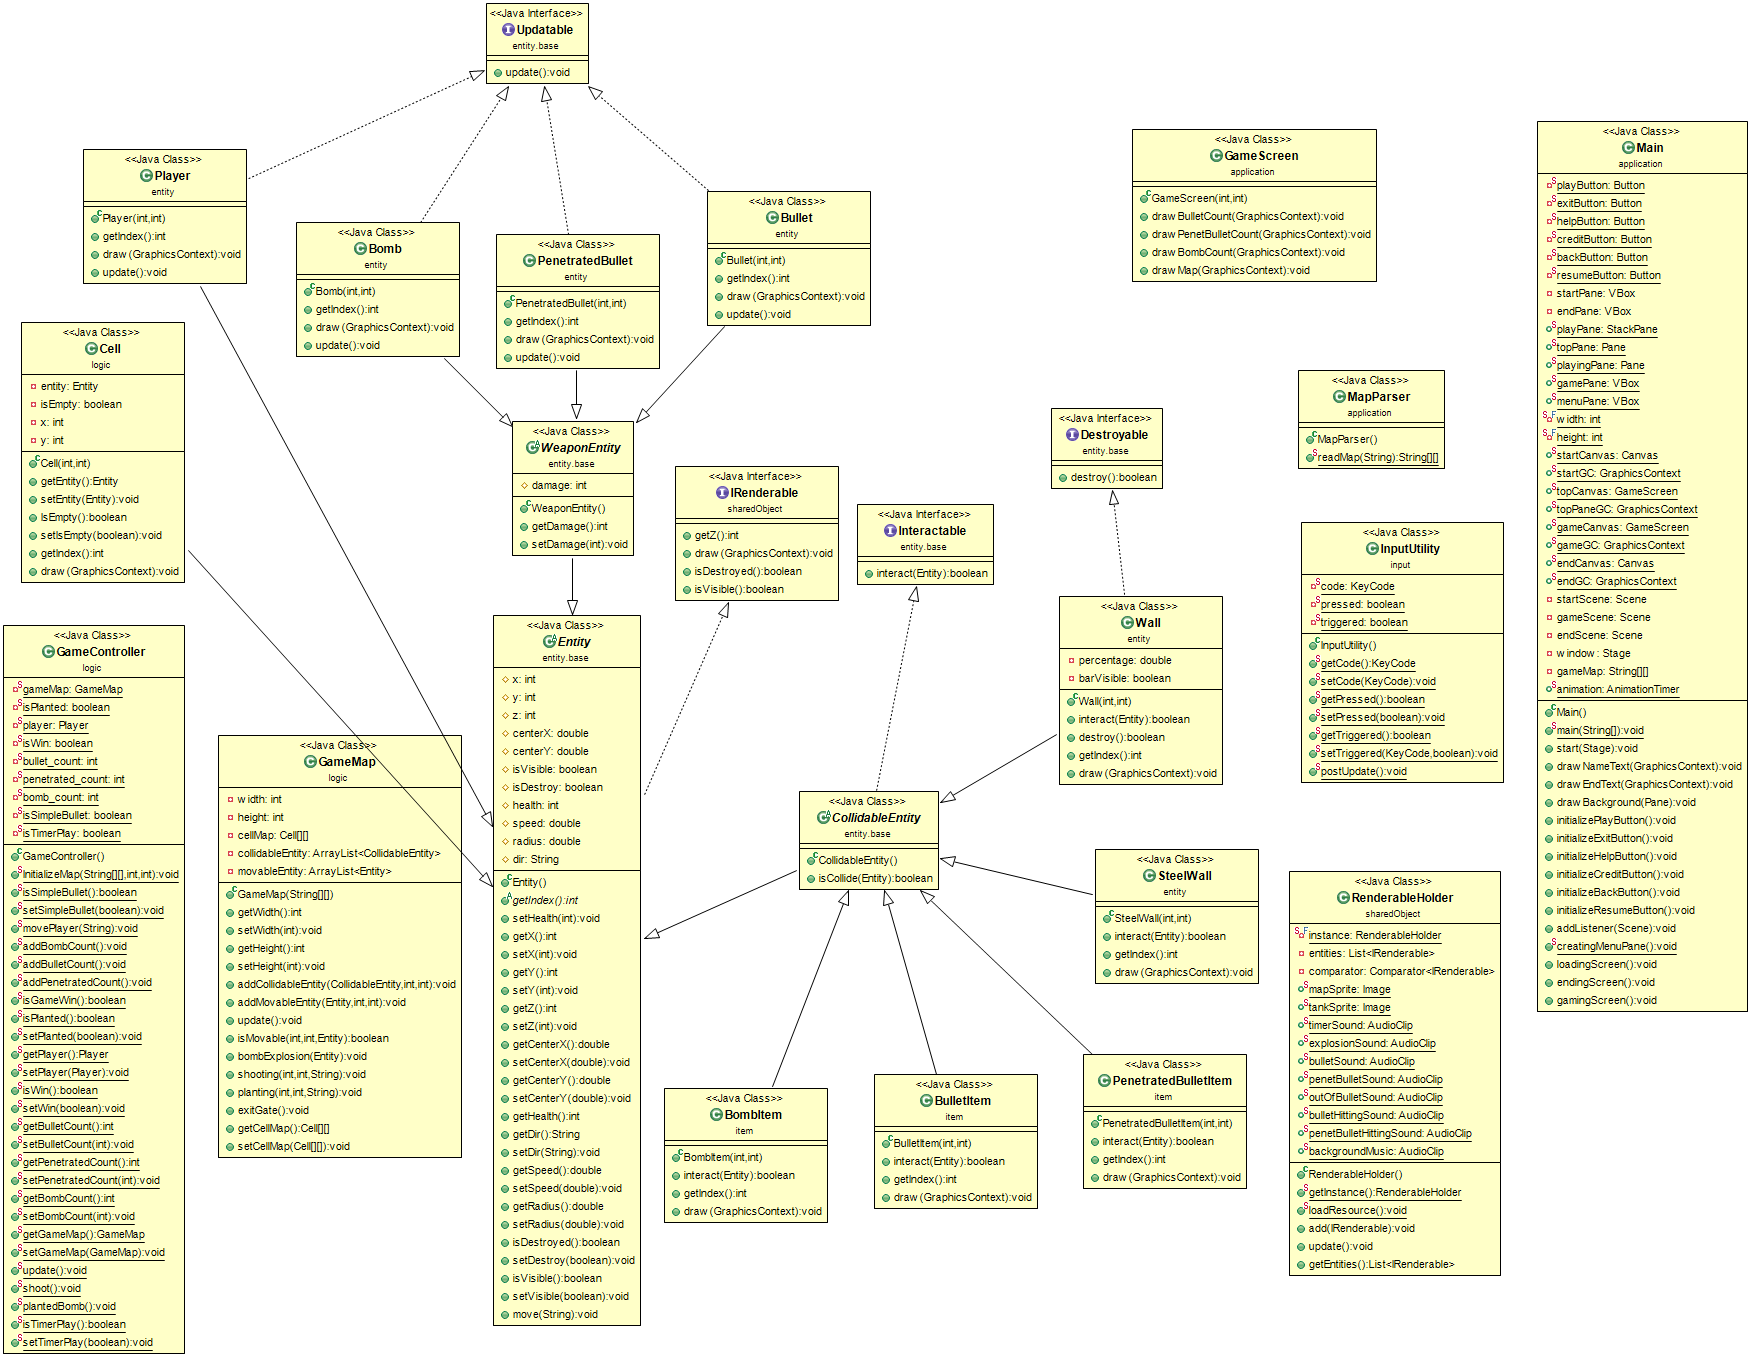
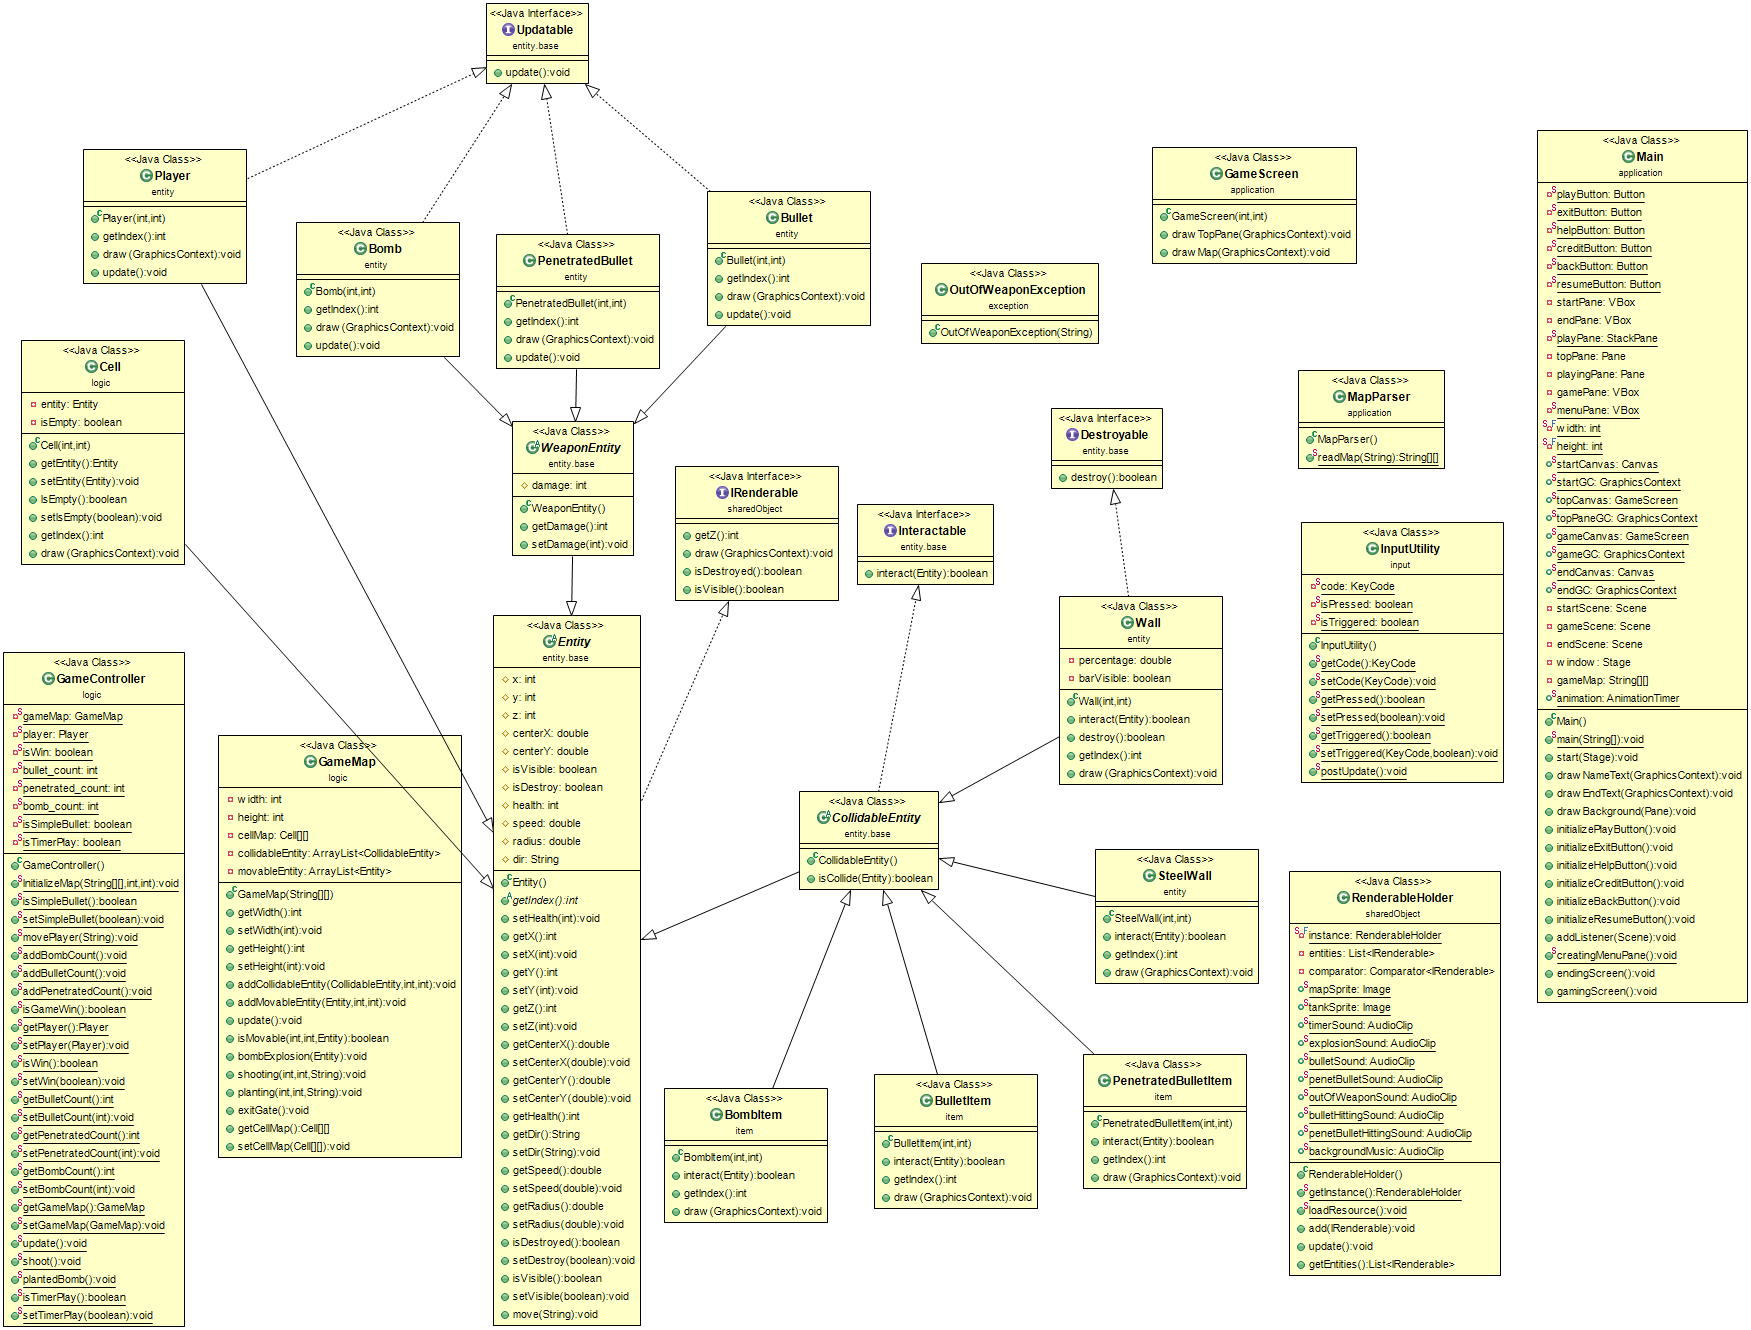
Edit method in GameScreen

diff --git a/src/application/GameScreen.java b/src/application/GameScreen.java
@@ -14,51 +14,39 @@ public class GameScreen extends Canvas {
 		super(width, height);
 	}
 
-	public void drawBulletCount(GraphicsContext gc) {
+	public void drawTopPane(GraphicsContext gc) {
 		gc.setLineWidth(2);
 		gc.setFill(Color.BLACK);
-		gc.fillRect(0, 0, 135, 60);
+		gc.fillRect(0, 0, this.getWidth(), this.getHeight());
+
+		int bulletCount = logic.GameController.getBulletCount();
+		int penetBulletCount = logic.GameController.getPenetratedCount();
+		int bombCount = logic.GameController.getBombCount();
+		gc.setFont(Font.font("VERDANA", 40));
 		if (GameController.isSimpleBullet()) {
 			gc.setFill(Color.YELLOW);
 			gc.setStroke(Color.RED);
+			gc.fillText("BULLET : " + Integer.toString(bulletCount), 0, 50, 135);
+			gc.strokeText("BULLET : " + Integer.toString(bulletCount), 0, 50, 135);
+			gc.setFill(Color.AQUA);
+			gc.setStroke(Color.BLUE);
+			gc.fillText("PENETRATEDBULLET : " + Integer.toString(penetBulletCount), 135, 50, 270);
+			gc.strokeText("PENETRATEDBULLET : " + Integer.toString(penetBulletCount), 135, 50, 270);
+			gc.fillText("BOMB : " + Integer.toString(bombCount), 405, 50, 135);
+			gc.strokeText("BOMB : " + Integer.toString(bombCount), 405, 50, 135);
 		} else {
 			gc.setFill(Color.AQUA);
 			gc.setStroke(Color.BLUE);
-		}
-		gc.setFont(Font.font("VERDANA", 40));
-		int bulletCount = logic.GameController.getBulletCount();
-		gc.fillText("BULLET : " + Integer.toString(bulletCount), 0, 50, 135);
-		gc.strokeText("BULLET : " + Integer.toString(bulletCount), 0, 50, 135);
-	}
-
-	public void drawPenetBulletCount(GraphicsContext gc) {
-		gc.setLineWidth(2);
-		gc.setFill(Color.BLACK);
-		gc.fillRect(135, 0, 270, 60);
-		if (!GameController.isSimpleBullet()) {
+			gc.fillText("BULLET : " + Integer.toString(bulletCount), 0, 50, 135);
+			gc.strokeText("BULLET : " + Integer.toString(bulletCount), 0, 50, 135);
+			gc.fillText("BOMB : " + Integer.toString(bombCount), 405, 50, 135);
+			gc.strokeText("BOMB : " + Integer.toString(bombCount), 405, 50, 135);
 			gc.setFill(Color.YELLOW);
 			gc.setStroke(Color.RED);
-		} else {
-			gc.setFill(Color.AQUA);
-			gc.setStroke(Color.BLUE);
+			gc.fillText("PENETRATEDBULLET : " + Integer.toString(penetBulletCount), 135, 50, 270);
+			gc.strokeText("PENETRATEDBULLET : " + Integer.toString(penetBulletCount), 135, 50, 270);
 		}
-		gc.setFont(Font.font("VERDANA", 40));
-		int penetBulletCount = logic.GameController.getPenetratedCount();
-		gc.fillText("PENETRATEDBULLET : " + Integer.toString(penetBulletCount), 135, 50, 270);
-		gc.strokeText("PENETRATEDBULLET : " + Integer.toString(penetBulletCount), 135, 50, 270);
-	}
 
-	public void drawBombCount(GraphicsContext gc) {
-		gc.setLineWidth(2);
-		gc.setFill(Color.BLACK);
-		gc.fillRect(405, 0, 135, 60);
-
-		gc.setFill(Color.AQUA);
-		gc.setStroke(Color.BLUE);
-		gc.setFont(Font.font("VERDANA", 40));
-		int bombCount = logic.GameController.getBombCount();
-		gc.fillText("BOMB : " + Integer.toString(bombCount), 405, 50, 135);
-		gc.strokeText("BOMB : " + Integer.toString(bombCount), 405, 50, 135);
 	}
 
 	public void drawMap(GraphicsContext gc) {

diff --git a/src/application/Main.java b/src/application/Main.java
@@ -46,14 +46,13 @@ public class Main extends Application {
 	private static Button backButton;
 	private static Button resumeButton;
 
-	public static StackPane pane = new StackPane();
 	private VBox startPane = new VBox();
 	private VBox endPane = new VBox();
-	public static StackPane playPane = new StackPane();
-	public static Pane topPane = new Pane();
-	public static Pane playingPane = new Pane();
-	public static VBox gamePane = new VBox();
-	public static VBox menuPane = new VBox();
+	private static StackPane playPane = new StackPane();
+	private Pane topPane = new Pane();
+	private Pane playingPane = new Pane();
+	private VBox gamePane = new VBox();
+	private static VBox menuPane = new VBox();
 
 	private static final int width = 540;
 	private static final int height = 600;
@@ -70,7 +69,6 @@ public class Main extends Application {
 	public static Canvas endCanvas = new Canvas(width, 500);
 	public static GraphicsContext endGC = endCanvas.getGraphicsContext2D();
 
-	private Scene Scene;
 	private Scene startScene;
 	private Scene gameScene;
 	private Scene endScene;
@@ -159,14 +157,11 @@ public class Main extends Application {
 		playButton.setOnMouseClicked(new EventHandler<MouseEvent>() {
 			@Override
 			public void handle(MouseEvent event) {
-				loadingScreen();
 				gamingScreen();
 				window.setScene(gameScene);
 				animation = new AnimationTimer() {
 					public void handle(long now) {
-						topCanvas.drawBulletCount(topPaneGC);
-						topCanvas.drawPenetBulletCount(topPaneGC);
-						topCanvas.drawBombCount(topPaneGC);
+						topCanvas.drawTopPane(topPaneGC);
 						gameCanvas.drawMap(gameGC);
 						GameController.update();
 						RenderableHolder.getInstance().update();
@@ -311,24 +306,6 @@ public class Main extends Application {
 		menuPane.getChildren().addAll(resumeButton, backButton, exitButton);
 	}
 
-	public void loadingScreen() {
-		startPane.getChildren().clear();
-
-		Canvas loadingCanvas = new Canvas(width, height);
-		GraphicsContext loadingGC = loadingCanvas.getGraphicsContext2D();
-
-		startPane.getChildren().addAll(loadingCanvas);
-		drawBackground(startPane);
-
-		loadingGC.setLineWidth(5);
-		loadingGC.setFill(Color.BLACK);
-		loadingGC.fillRect(0, 0, width, height);
-
-		loadingGC.setFont(Font.font("VERDENA", FontWeight.BOLD, 50));
-		loadingGC.setFill(Color.WHITE);
-		loadingGC.fillText("LOADING...", 250, 550);
-	}
-
 	public void endingScreen() {
 		drawEndText(endGC);
 		drawBackground(endPane);
@@ -361,7 +338,6 @@ public class Main extends Application {
 		playingPane.getChildren().add(gameCanvas);
 		gamePane.getChildren().add(playingPane);
 
-		// gameScene = new Scene(playPane, width, height);
 		gameMap = MapParser.readMap("map.csv");
 		GameController.InitializeMap(gameMap, 1, 6);
 

diff --git a/src/input/InputUtility.java b/src/input/InputUtility.java
@@ -14,37 +14,33 @@ public class InputUtility {
 		InputUtility.code = code;
 	}
 
-	private static boolean pressed = false;
-	private static boolean triggered = false;
+	private static boolean isPressed = false;
+	private static boolean isTriggered = false;
 
 	public static boolean getPressed() {
-		return pressed;
+		return isPressed;
 	}
 
-	public static void setPressed(boolean pressed) {
-		if (pressed) {
-			InputUtility.pressed = true;
-		} else {
-			InputUtility.pressed = false;
-		}
+	public static void setPressed(boolean isPressed) {
+		InputUtility.isPressed = isPressed;
 	}
 
 	public static boolean getTriggered() {
-		return triggered;
+		return isTriggered;
 	}
 
-	public static void setTriggered(KeyCode code, boolean pressed) {
-		if (pressed) {
-			triggered = true;
+	public static void setTriggered(KeyCode code, boolean isPressed) {
+		if (isPressed) {
+			isTriggered = true;
 			if (!InputUtility.code.equals(code)) {
 				InputUtility.code = code;
 			}
 		} else {
-			triggered = false;
+			isTriggered = false;
 		}
 	}
 
 	public static void postUpdate() {
-		triggered = false;
+		isTriggered = false;
 	}
 }

diff --git a/src/exception/OutOfWeaponException.java b/src/exception/OutOfWeaponException.java
@@ -3,9 +3,9 @@ package exception;
 import javafx.scene.control.Alert;
 
 public class OutOfWeaponException extends Exception {
-	public OutOfWeaponException(String bullet) {
+	public OutOfWeaponException(String weapon) {
 		Alert error = new Alert(Alert.AlertType.WARNING);
-		error.setContentText(bullet + " is outed!!! Find more in the map");
+		error.setContentText(weapon + " is outed!!! Find more in the map");
 		error.show();
 	}
 }

diff --git a/src/logic/Cell.java b/src/logic/Cell.java
@@ -8,7 +8,6 @@ import sharedObject.RenderableHolder;
 public class Cell extends Entity {
 	private Entity entity;
 	private boolean isEmpty;
-	private int x, y;
 
 	public Cell(int x, int y) {
 		entity = null;
